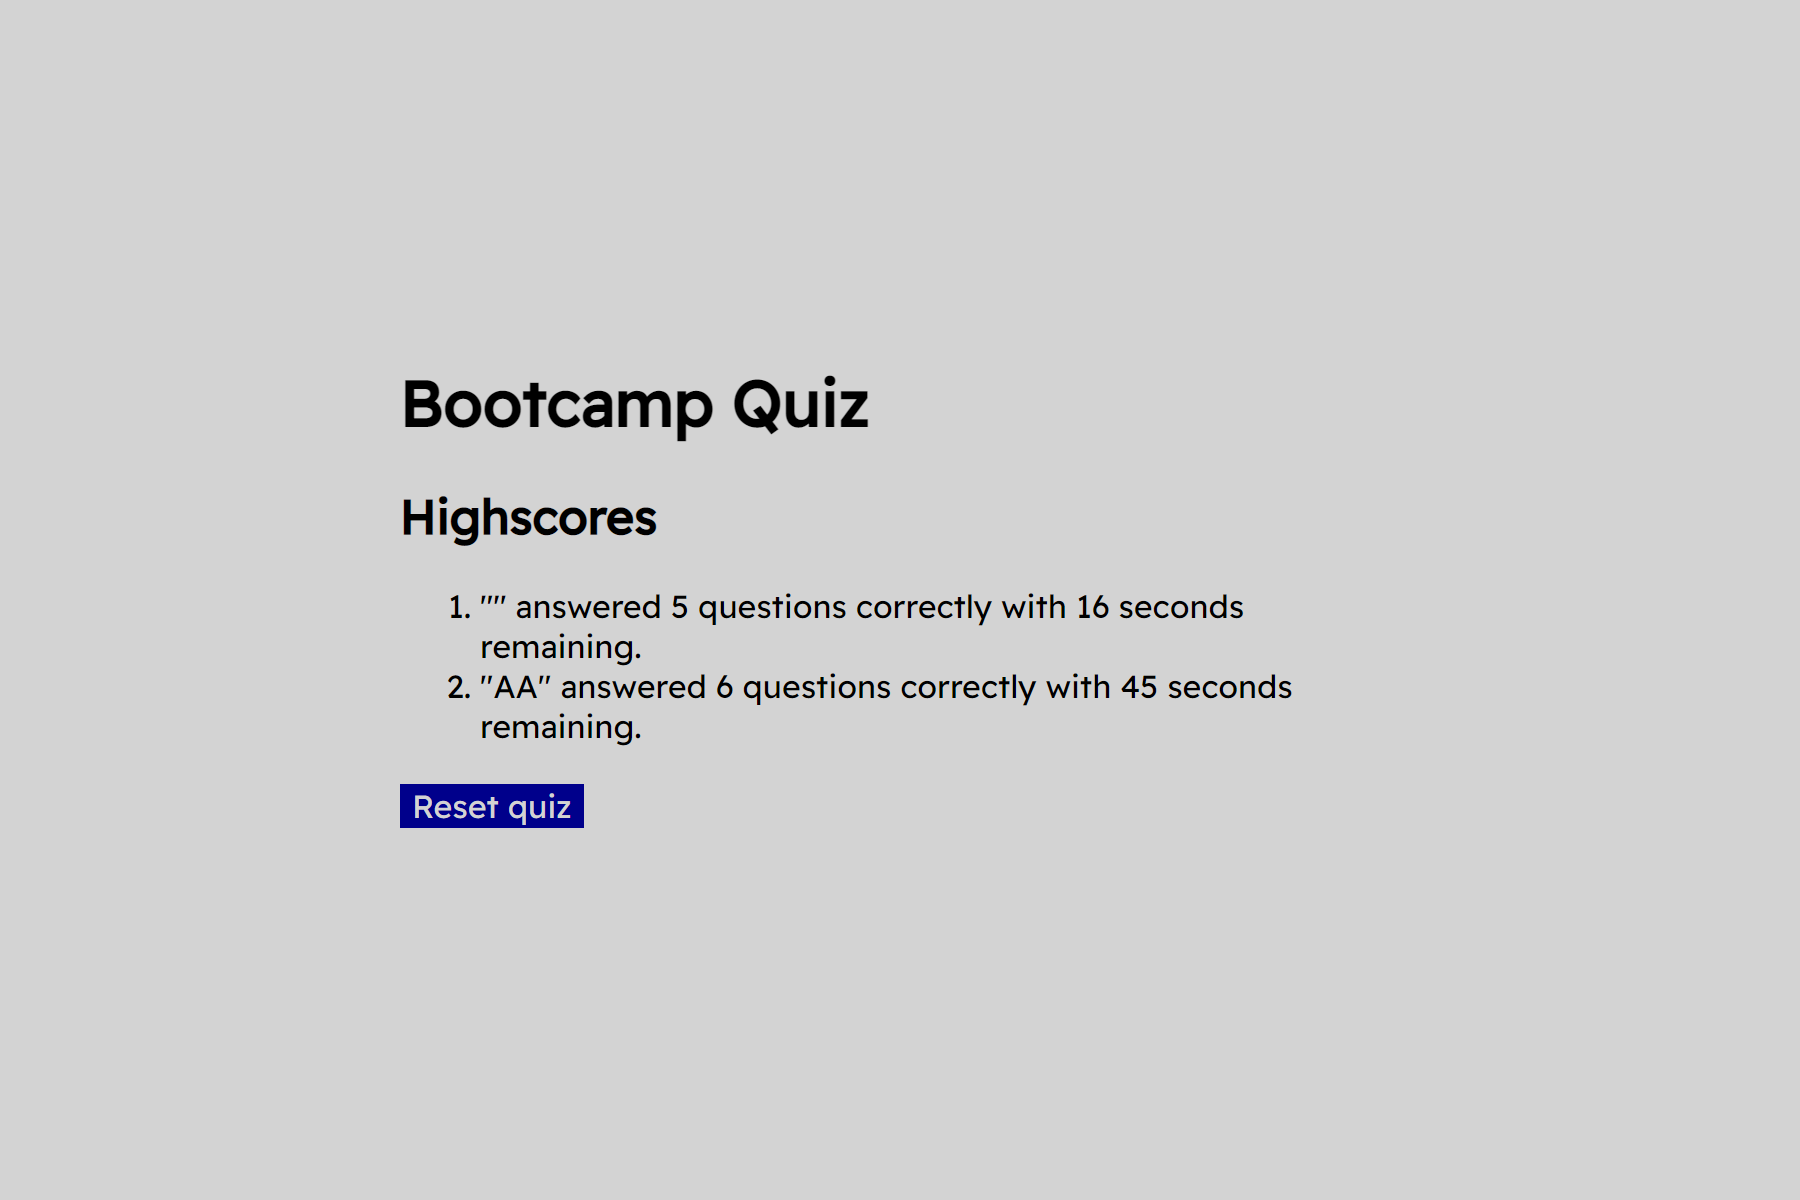
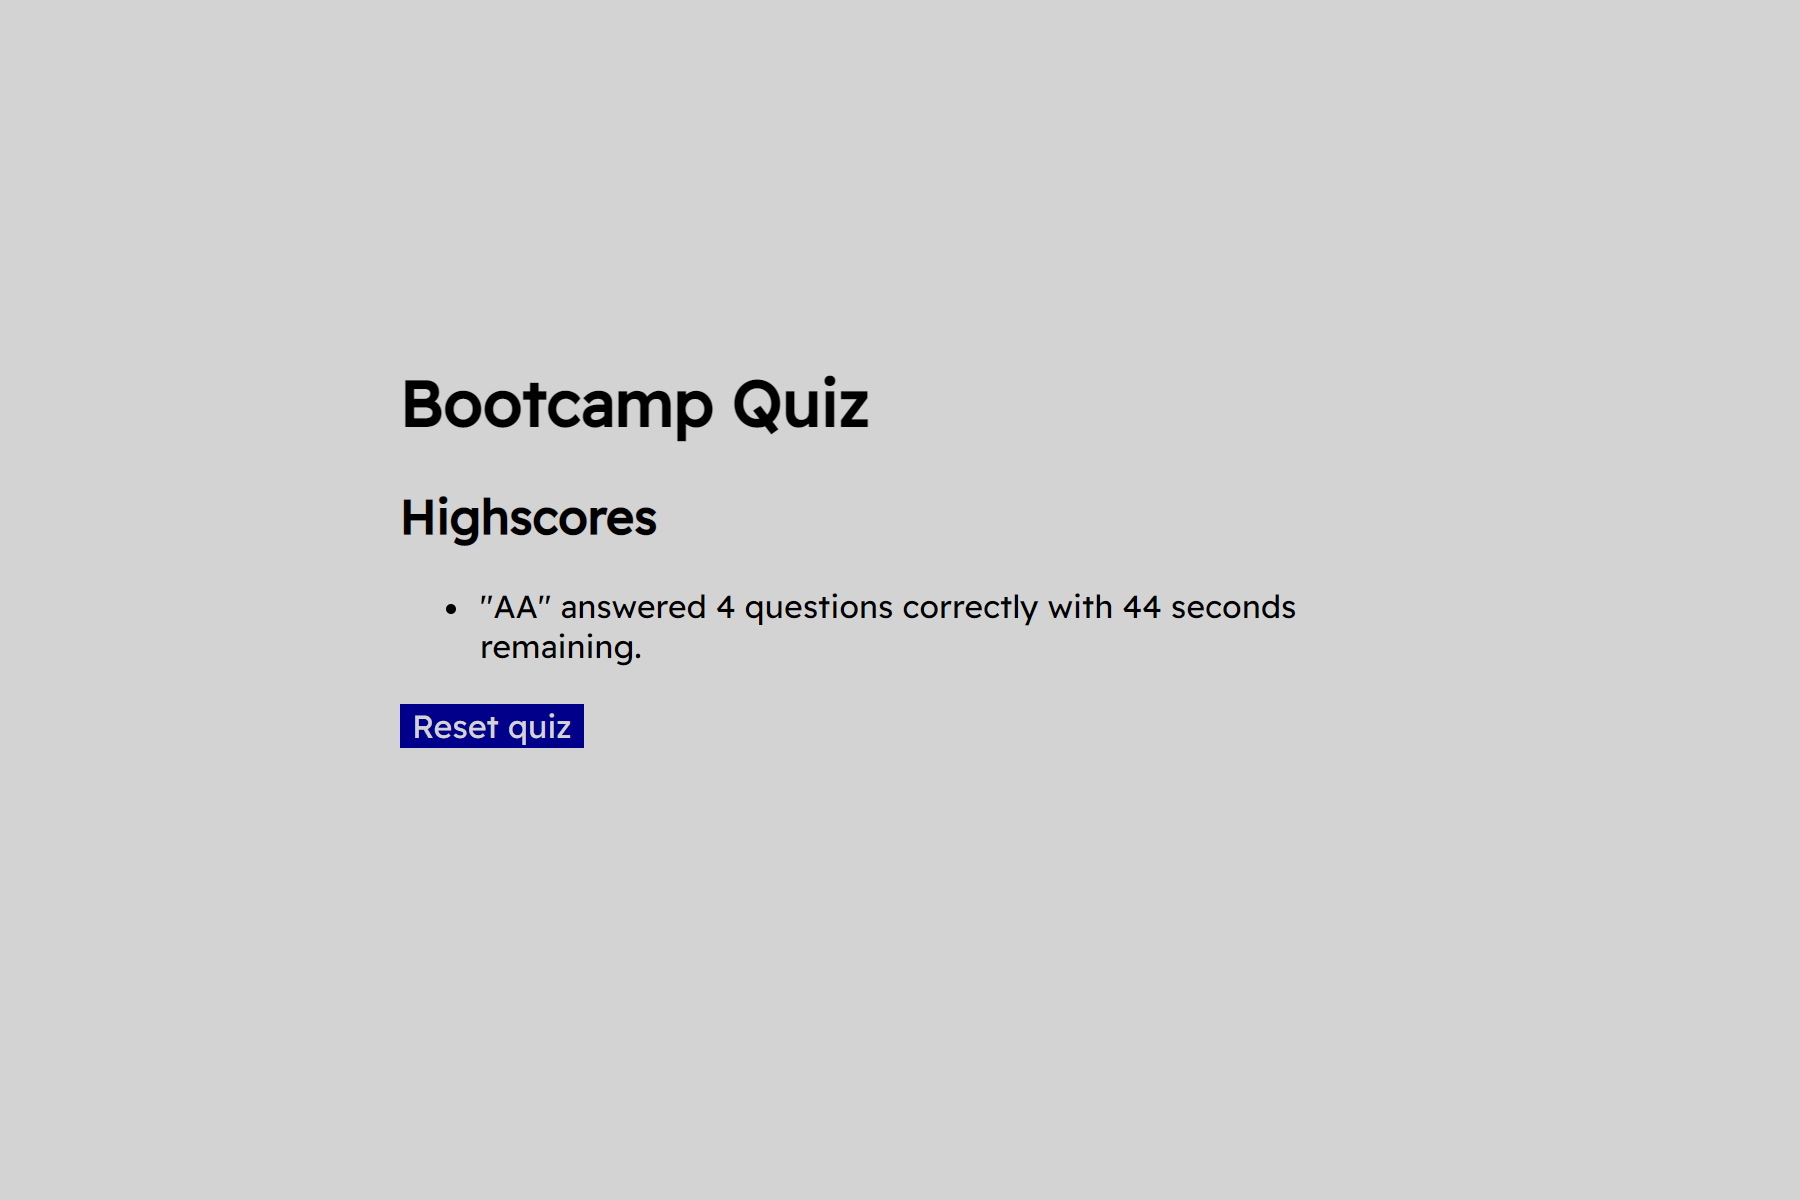
Made small cosmetic changes

Changed region(s): [[0.2178, 0.555, 0.7156, 0.7092], [0.2489, 0.4933, 0.7156, 0.5242]]

diff --git a/index.html b/index.html
@@ -40,19 +40,19 @@
     <div id="question3">
         <h2>Question 3</h2>
         <p>In relation to the CSS basic box model, which of the following edges is the outermost?</p>
-        <button type="button" class="button" id="question3answer0">Border edge</button>
-        <button type="button" class="button" id="question3answer1">Content edge</button>
-        <button type="button" class="button" id="question3answer2">Margin edge</button>
-        <button type="button" class="button" id="question3answer3">Padding edge</button>
+        <button type="button" class="button" id="question3answer0">border edge</button>
+        <button type="button" class="button" id="question3answer1">content edge</button>
+        <button type="button" class="button" id="question3answer2">margin edge</button>
+        <button type="button" class="button" id="question3answer3">padding edge</button>
     </div>
 
     <div id="question4">
         <h2>Question 4</h2>
         <p>Which of the following statements regarding the !important property in CSS is true?</p>
         <button type="button" class="button" id="question4answer0">!important means not important</button>
-        <button type="button" class="button" id="question4answer1">Non-!important styling attributes included later in the CSS will overide earlier instances of !important </button>
-        <button type="button" class="button" id="question4answer2">All major headings should be marked as !important</button>
-        <button type="button" class="button" id="question4answer3">The !important property should be used sparingly</button>
+        <button type="button" class="button" id="question4answer1">non-!important styling attributes included later in the CSS will overide earlier instances of !important </button>
+        <button type="button" class="button" id="question4answer2">all major headings should be marked as !important</button>
+        <button type="button" class="button" id="question4answer3">the !important property should be used sparingly</button>
     </div>
 
     <div id="question5">
@@ -67,10 +67,10 @@
     <div id="question6">
         <h2>Question 6</h2>
         <p>Which of the following is an example of responsive web design?</p>
-        <button type="button" class="button" id="question6answer0">Ensuring the content of a web page is up to date</button>
-        <button type="button" class="button" id="question6answer1">Adjusting web page styling to suit the user's viewport</button>
-        <button type="button" class="button" id="question6answer2">Changing page content in response to user input</button>
-        <button type="button" class="button" id="question6answer3">Providing a form that users can complete to submit information</button>
+        <button type="button" class="button" id="question6answer0">ensuring the content of a web page is up to date</button>
+        <button type="button" class="button" id="question6answer1">adjusting web page styling to suit the user's viewport</button>
+        <button type="button" class="button" id="question6answer2">changing page content in response to user input</button>
+        <button type="button" class="button" id="question6answer3">providing a form that users can complete to submit information</button>
     </div>
 
     <div id="question7">
@@ -111,8 +111,8 @@
 
     <div id="highscores">
         <h2>Highscores</h2>
-        <ol id="highscoresList">
-        </ol>
+        <ul id="highscoresList">
+        </ul>
         <button type="button" class="button" id="reset">Reset quiz</button>
     </div>
         
